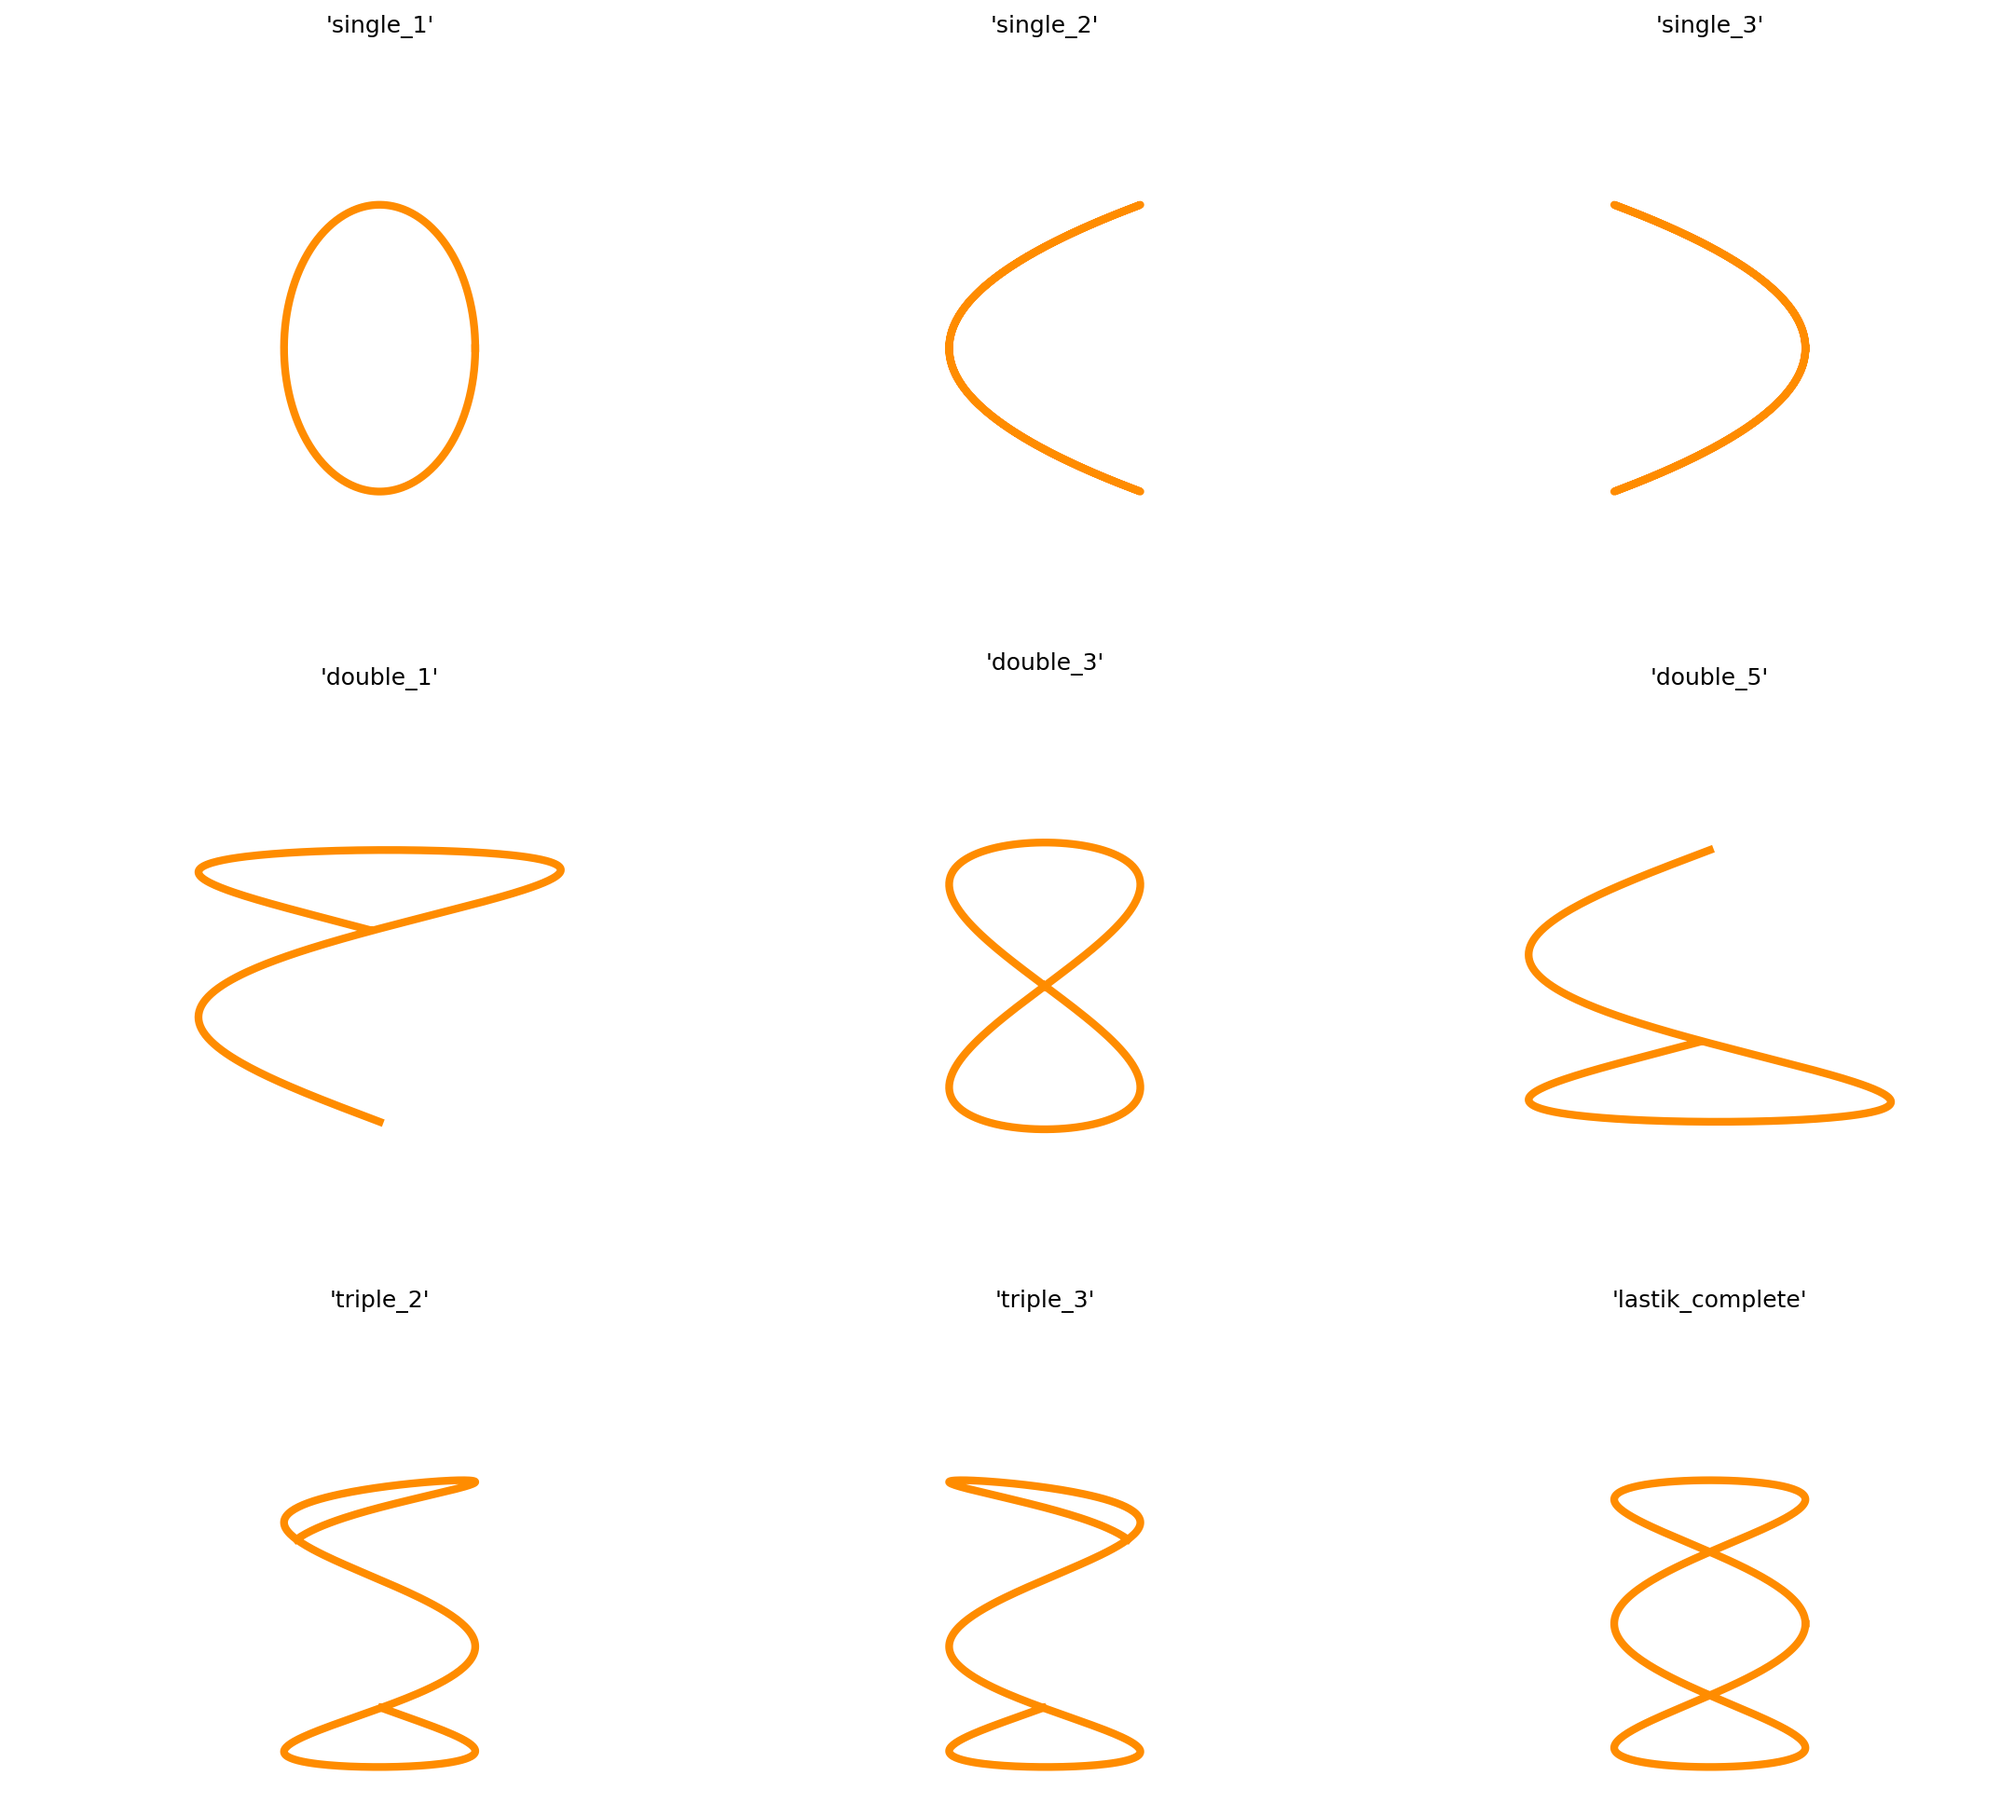
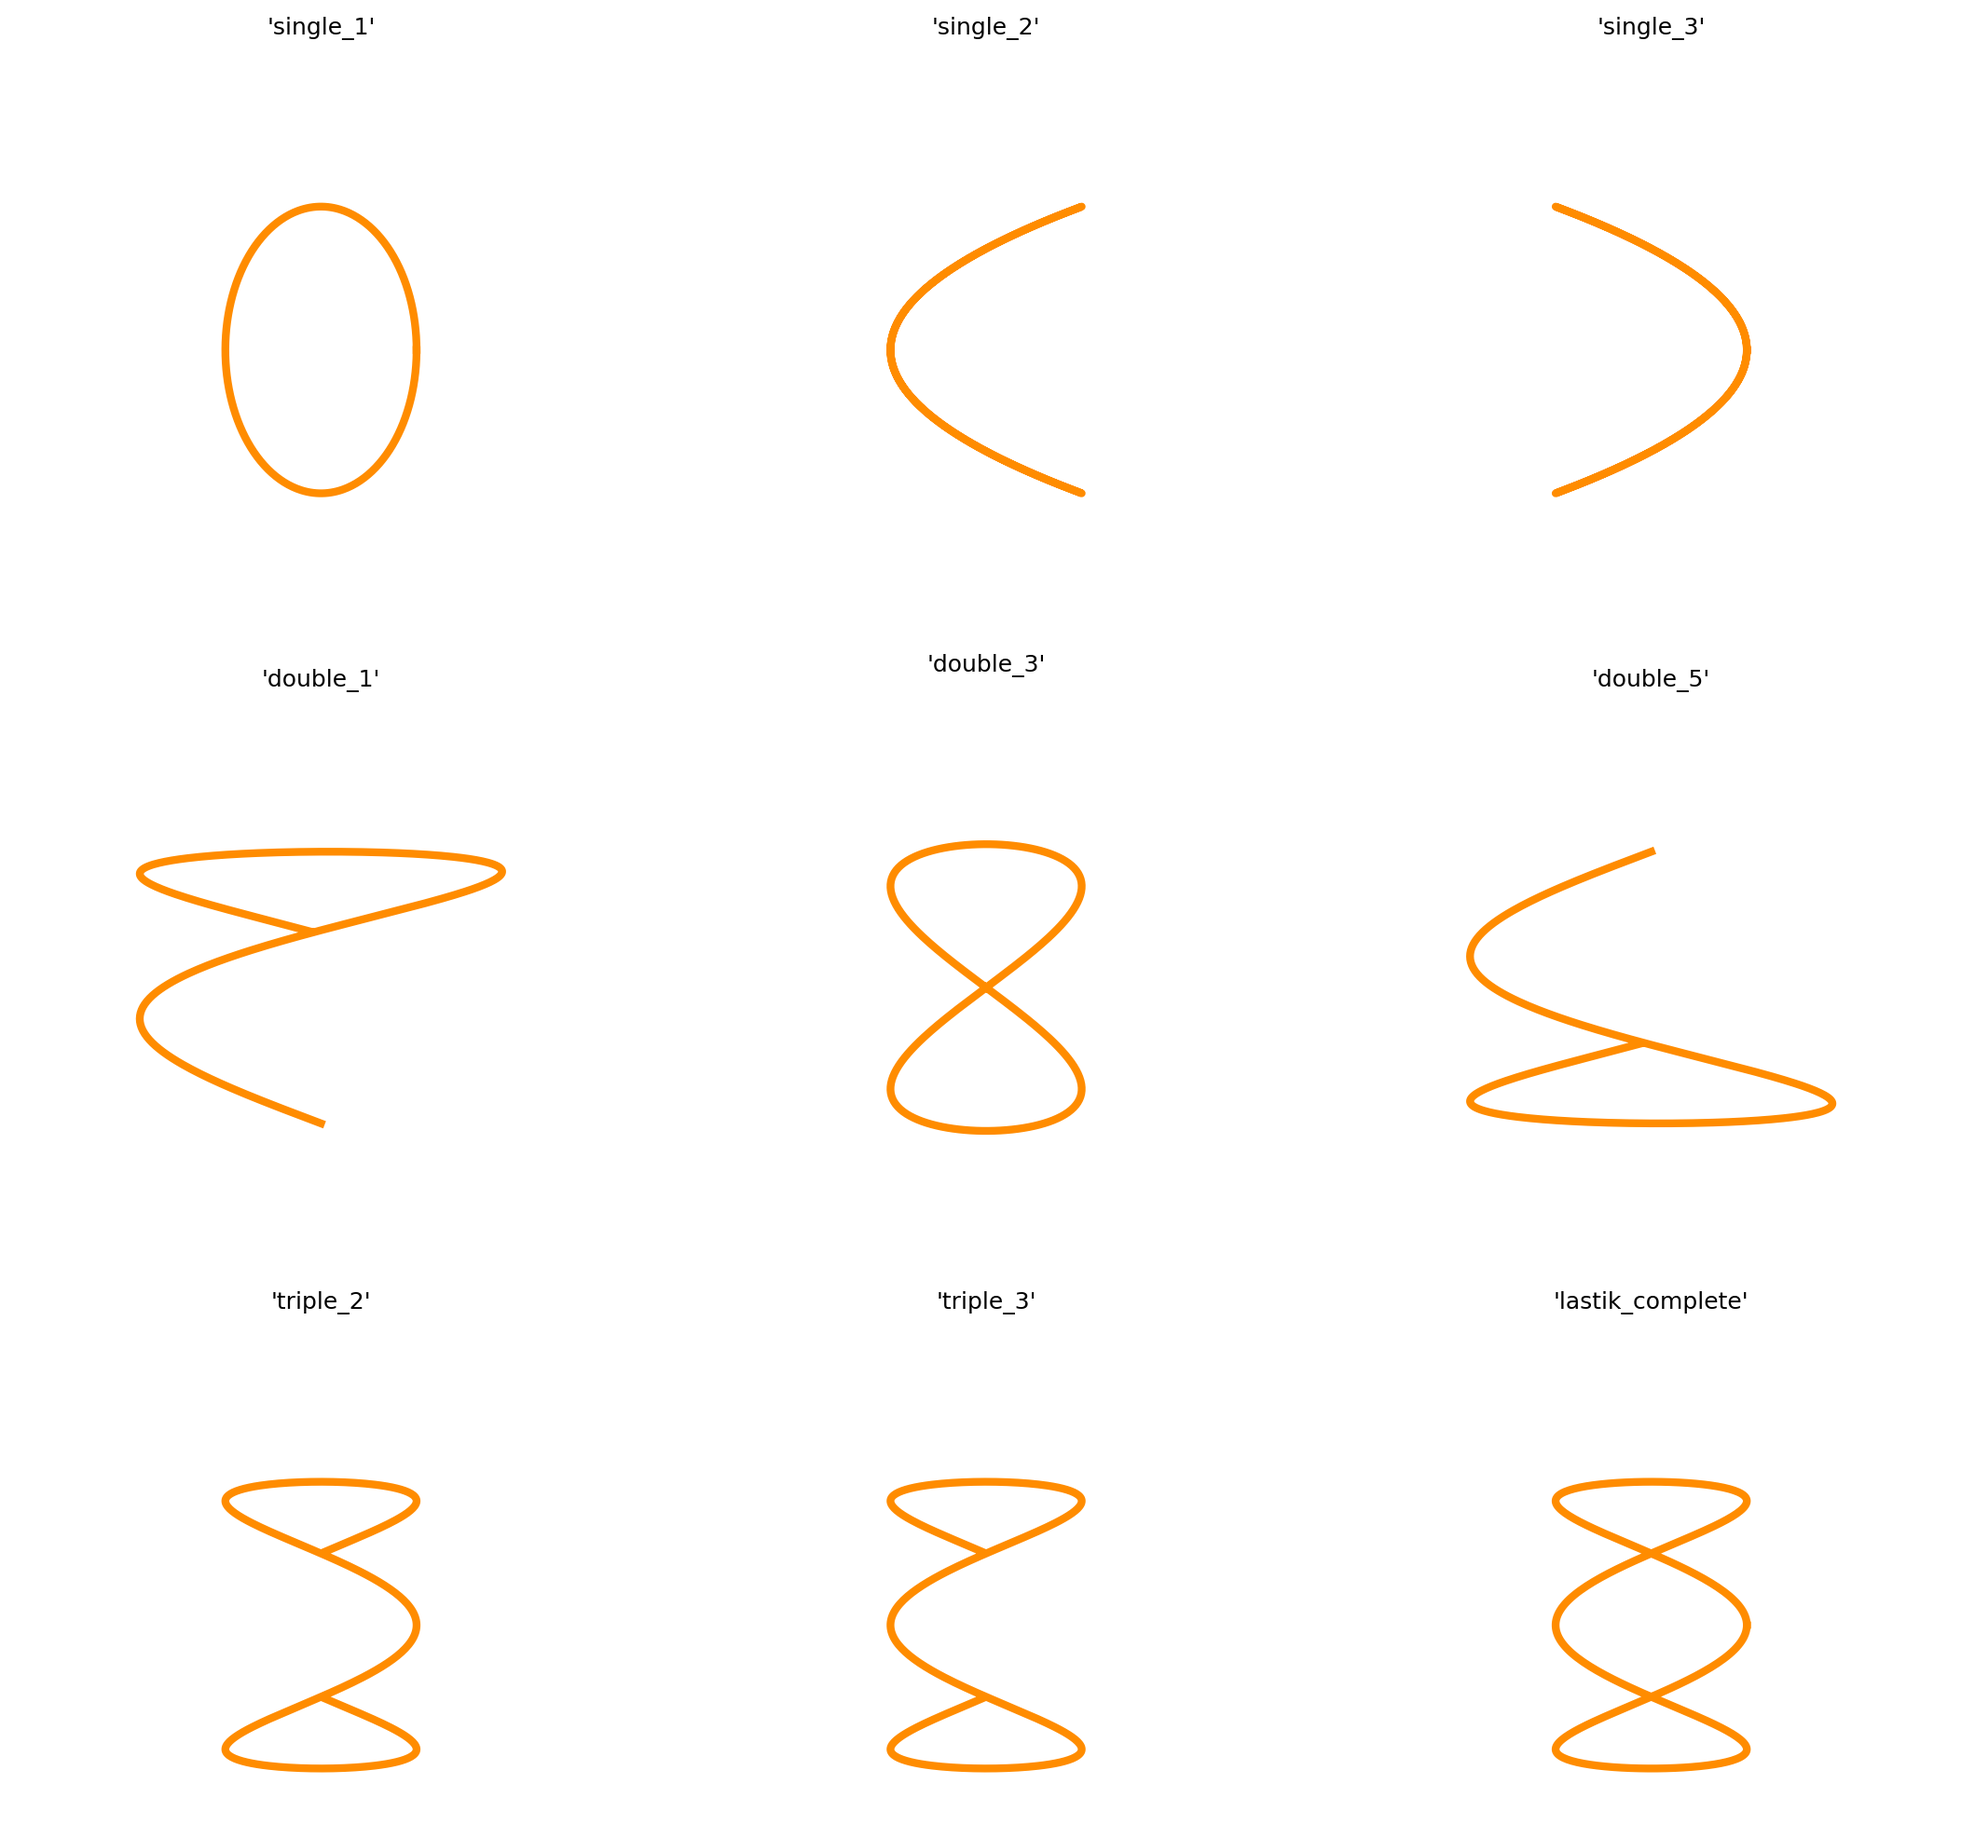
lastik-lab.png shape revision

diff --git a/lastik-lab.py b/lastik-lab.py
@@ -38,8 +38,8 @@ SHAPE_DATABASE = {
     
     # --- Triple combination ---
     'triple_1': {'a': 2, 'b': 1, 'fase_pi': 1.0}, # Nuancer bow tie
-    'triple_2': {'a': 3.33, 'b': 1, 'fase_pi': 1.0, 't_range_pi': (0.2, 1.8)}, # Mysterious shape 1
-    'triple_3': {'a': 3.33, 'b': 1, 'fase_pi': 0, 't_range_pi': (0.2, 1.8)}, # Mysterious shape 2 (symmetry of Mysterious shape 1 )
+    'triple_2': {'a': 3, 'b': 1, 'fase_pi': 1.5, 't_range_pi': (0.17, 1.83)}, # Mysterious shape 2 (symmetry of Mysterious shape 1 )
+    'triple_3': {'a': 3, 'b': 1, 'fase_pi': 0.5, 't_range_pi': (0.17, 1.83)}, # Mysterious shape 2 (symmetry of Mysterious shape 1 )
     'triple_4': {'a': 2, 'b': 1, 'fase_pi': 1.0}, # Nuancer bow tie
 
     # --- LASTİK ---
